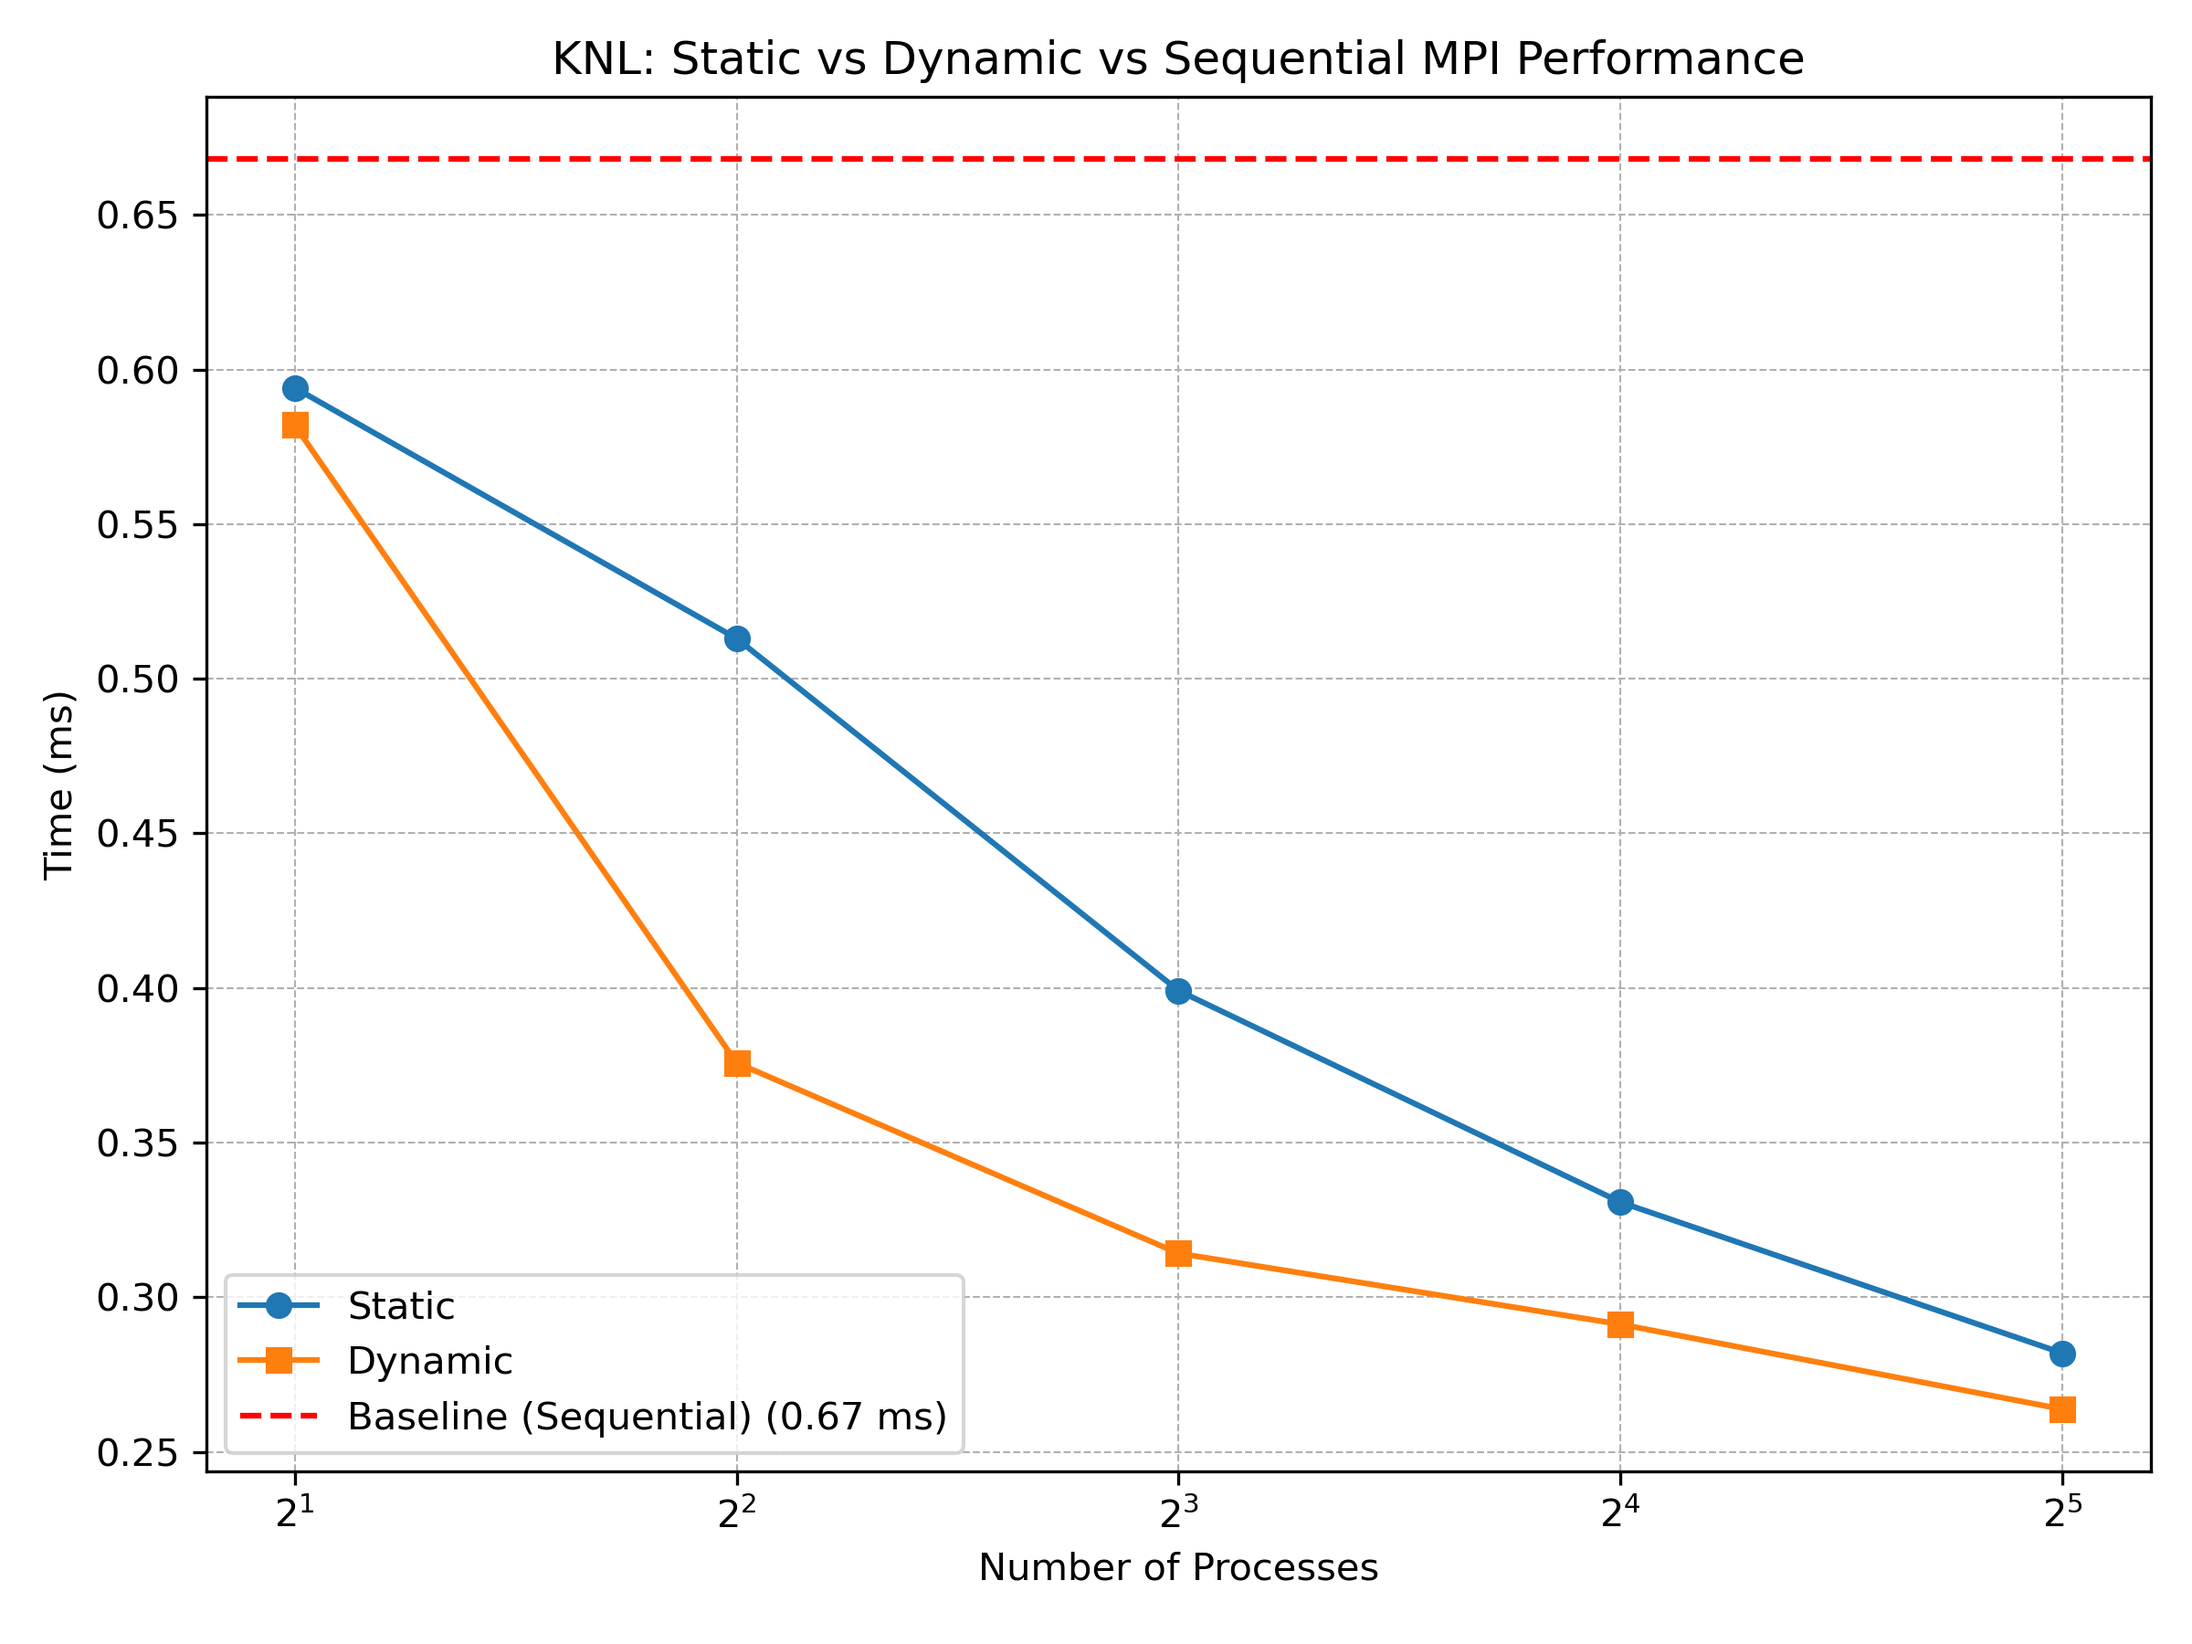
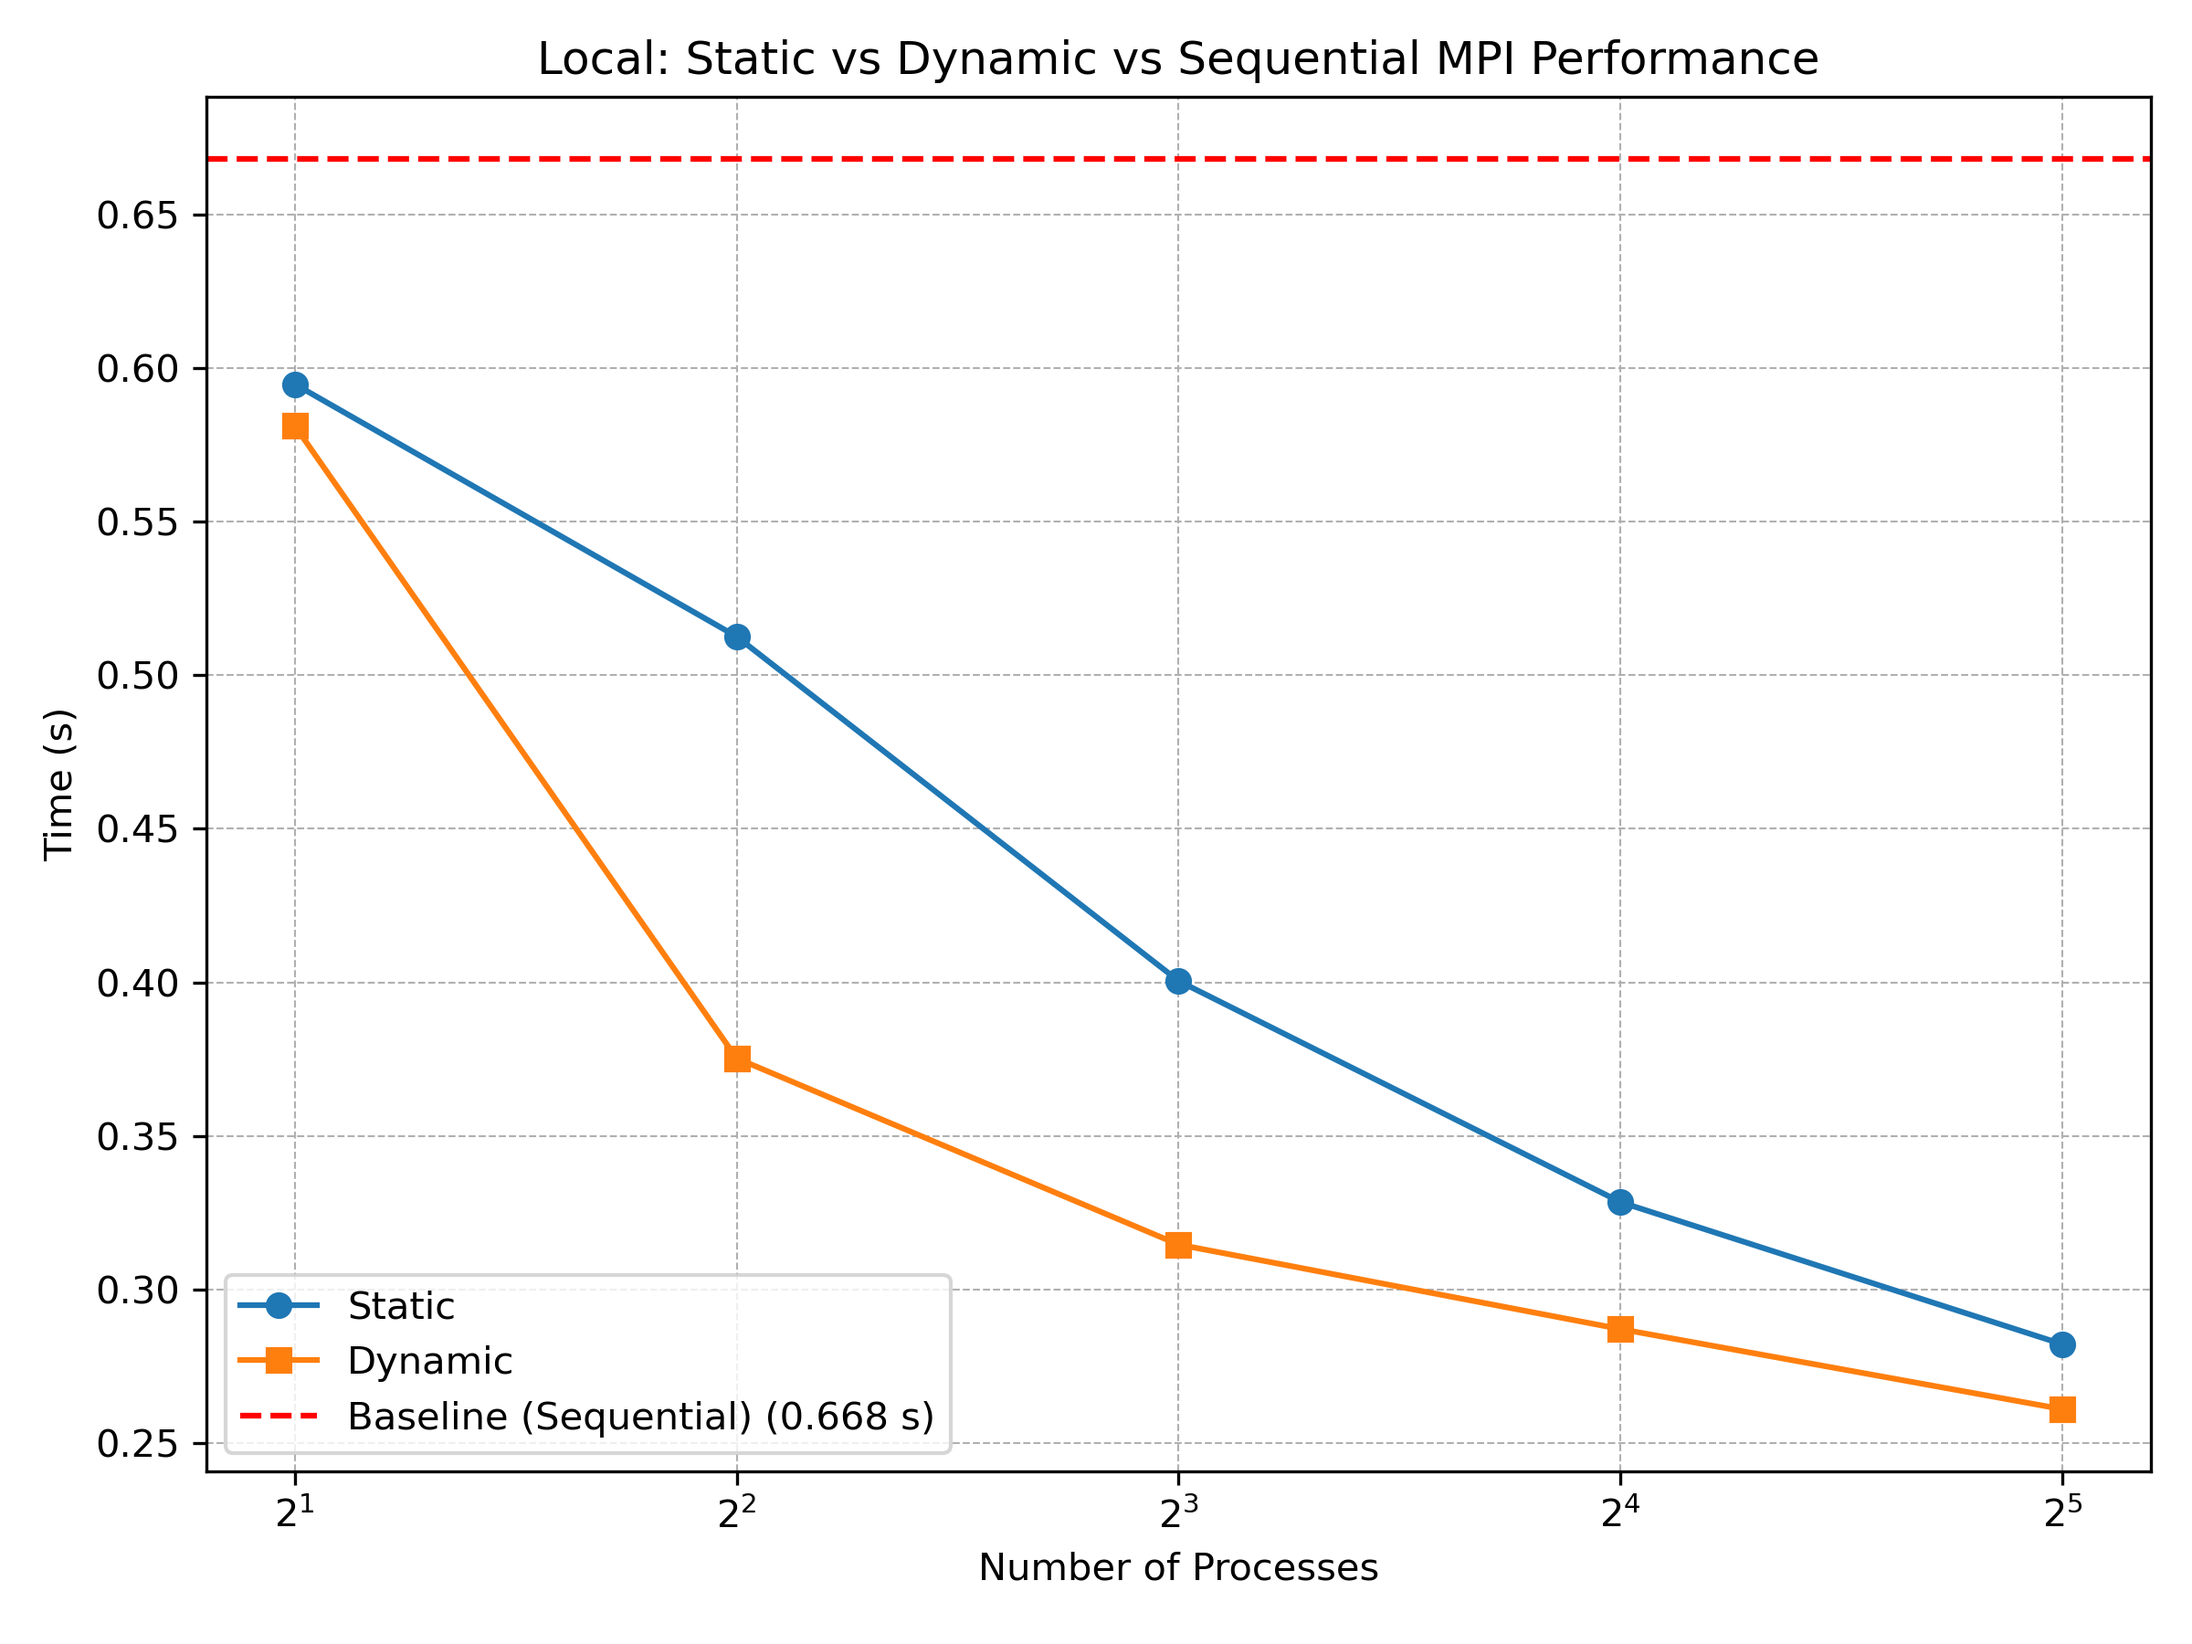
[add]

diff --git a/assignment1/q8/results.py b/assignment1/q8/results.py
@@ -5,6 +5,9 @@ import matplotlib.pyplot as plt
 import numpy as np
 
 # Load CSVs
+# static = pd.read_csv("knlstatic.csv", header=None, names=["processes", "time"])
+# dynamic = pd.read_csv("knldynamic.csv", header=None, names=["processes", "time"])
+# seq = pd.read_csv("knlseq.csv", header=None, names=["processes", "time"])
 static = pd.read_csv("static.csv", header=None, names=["processes", "time"])
 dynamic = pd.read_csv("dynamic.csv", header=None, names=["processes", "time"])
 seq = pd.read_csv("seq.csv", header=None, names=["processes", "time"])
@@ -36,6 +39,6 @@ plt.grid(True, which="both", ls="--", lw=0.5)
 
 plt.tight_layout()
 
-# plt.savefig("../report/images/q8.png", dpi=300)
+plt.savefig("../report/images/q8.png", dpi=300)
 
 plt.show()
